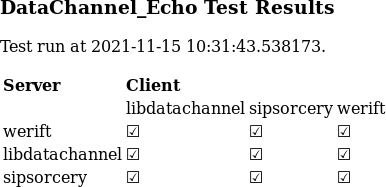
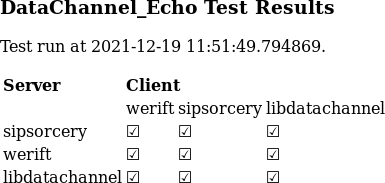
Automated data channel echo test results.

diff --git a/DataChannel_Echo_test_results.md b/DataChannel_Echo_test_results.md
@@ -1,9 +1,9 @@
 ## echo Test Results
-Test run at 2021-11-15 10:31:44.295415
+Test run at 2021-12-19 11:51:50.535965
 
 | Server      | Client      |             |             |
 |-------------|-------------|-------------|-------------|
-|             | libdatachannel| sipsorcery  | werift      |
+|             | werift      | sipsorcery  | libdatachannel|
+| sipsorcery  | &#9745;     | &#9745;     | &#9745;     |
 | werift      | &#9745;     | &#9745;     | &#9745;     |
 | libdatachannel| &#9745;     | &#9745;     | &#9745;     |
-| sipsorcery  | &#9745;     | &#9745;     | &#9745;     |
